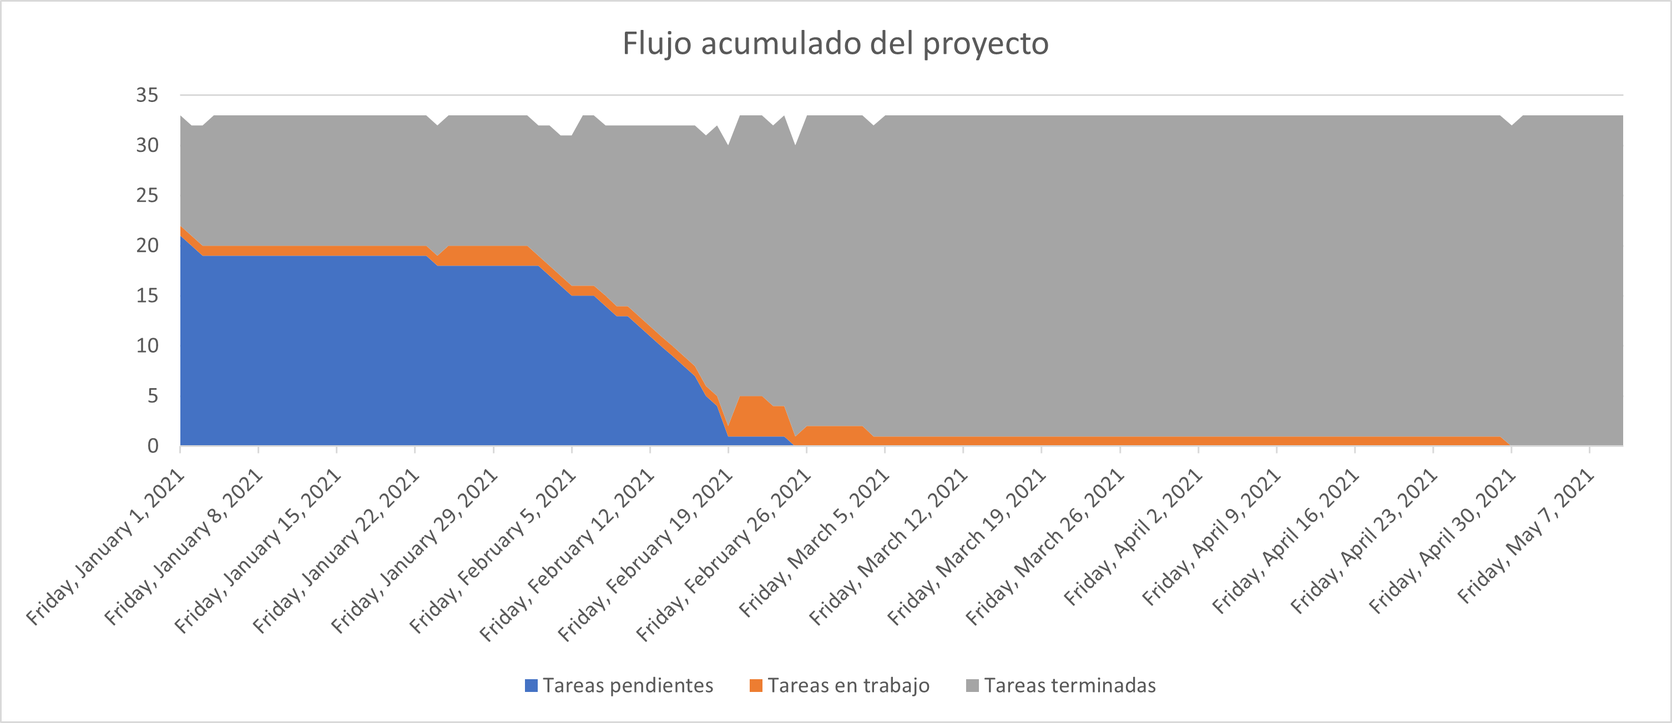
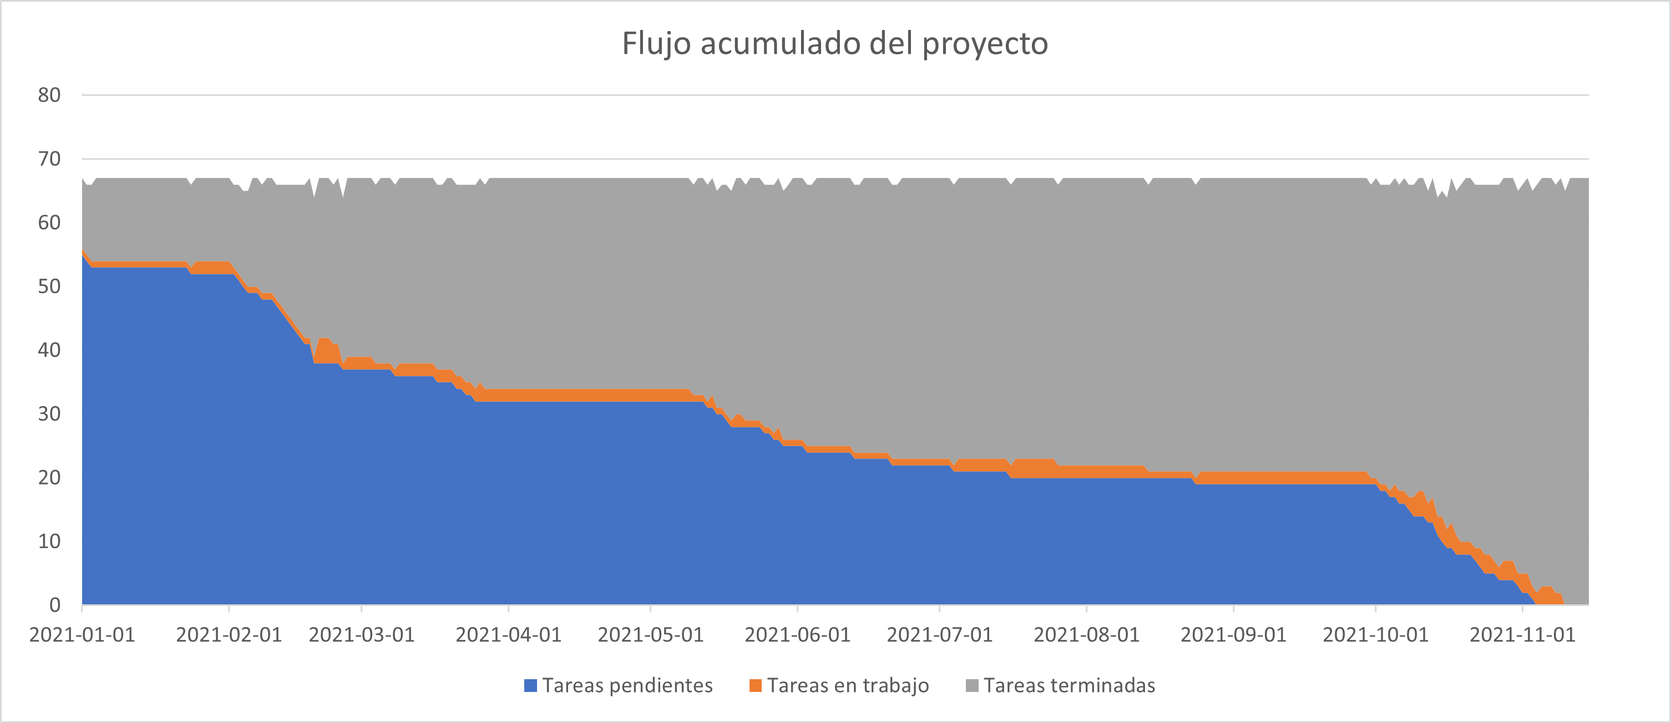
Actualizar actividades del proyecto y graficas

diff --git a/Capitulo4.tex b/Capitulo4.tex
@@ -2,12 +2,12 @@
 El siguiente capitulo se trabajó a base de la forma de validación detallada en el capítulo anterior. Y se detallan los resultados obtenidos.
 
 \section{Detalles de resultados}
-Se hizo reuniones con profesores de la materia de Fundamentos de Programación, en estas se revisaron los \textit{puzzles} del juego, se les mostró las mecánicas del juego y se revisó con ellos la forma de instalación para ver complejidad. Dado que por falta de tiempo la instalación se hace por el docente en su propia máquina. Las reuniones se realizaron para ver las opiniones del producto realizado para usuarios finales potenciales. Los usuarios a los que tiene más potencial de afectar el juego son a los estudiantes, pero como los profesores son los que implementan el juego en su clase, es importante de primera mano conocer sus perspectivas respecto al juego creado.
+Se realizaron varias reuniones con profesores de la materia de Fundamentos de Programación, en estas se revisaron los \textit{puzzles} del juego, se les mostró las mecánicas del juego y se revisó con ellos la forma de instalación. Esto último, dado que por falta de tiempo la instalación se hace por el docente en su propia máquina. Las reuniones se realizaron para ver las opiniones del producto realizado para usuarios finales potenciales. Los usuarios a los que tiene más potencial de afectar el juego son a los estudiantes, pero como los profesores son los que implementan el juego en su clase, es importante de primera mano un estudio para explorar sus perspectivas respecto al juego creado.
 
-Se realizaron cinco reuniones con distintos docentes del departamento de ingeniería eléctrica y computación de la Universidad Autónoma de Ciudad Juárez que imparten o impartieron en los últimos semestres la materia de Fundamentos de Programación en el campus de Ciudad Universitaria.
+Se realizaron reuniones con cinco distintos docentes del departamento de ingeniería eléctrica y computación de la Universidad Autónoma de Ciudad Juárez que imparten o impartieron en los últimos semestres la materia de Fundamentos de Programación en el campus de Ciudad Universitaria.
 
 \subsection{Primera reunión}
-Se realizó esta reunión el 6 de octubre del 2021. En esta se revisó el material del juego, se vio el valor didáctico de los diferentes puzzles del juego, y de manera menos detallada, la instalación y el \textit{gameplay}. En la revisión del juego, comento de manera positiva la variedad de los puzzles. Sin embargo, mencionó que debido al diseño de los puzzles que algunos tienen código similar a \textit{C} (figura~\ref{fig:for_puzzle_fail_c}), otro muy parecido a \textit{Python} (figura~\ref{fig:for_puzzle_fail_python}) y algunos adicionales de pseudocódigo, seria complicado para el docente usar este juego para la impartición de su clase porque ``rompería'' con lo visto en clase en algunos temas. Si el profesor tiene que explicar al estudiante que ciertos \textit{puzzles} funcionan de manera diferente a como se explicó en clase, el juego pierda valor didáctico y en el peor de los casos, podría confundir a los estudiantes.
+Se realizó esta reunión el 6 de octubre del 2021. Se revisó en esta el material del juego, se vio el valor didáctico de los diferentes puzzles del juego y de manera menos detallada, la instalación y el \textit{gameplay}. En esta revisión del juego comento de manera positiva la variedad de los puzzles. Sin embargo, mencionó que debido al diseño de los puzzles que algunos tienen código similar a \textit{C} (figura~\ref{fig:for_puzzle_fail_c}), otro muy parecido a \textit{Python} (figura~\ref{fig:for_puzzle_fail_python}) y algunos adicionales de pseudocódigo, seria complicado para el docente usar este juego para la impartición de su clase porque ``rompería'' con lo visto en clase en algunos temas. Si el profesor tiene que explicar al estudiante que ciertos \textit{puzzles} funcionan de manera diferente a como se explicó en clase, el juego pierda valor didáctico y en el peor de los casos, podría confundir a los estudiantes.
 \begin{figure}
     \centering
     \begin{subfigure}{0.4\textwidth}
@@ -29,18 +29,18 @@ Ante estos resultados se decidió volver a analizar el diseño y corregir los de
 \subsection{Segunda reunión}
 Se realizó una reunión el 1 de noviembre del 2021 con otro docente. A partir de esta reunión se usaron los ejercicios rediseñados. Se le mostró los diferentes ejercicios que pueden hacer los jugadores y las mecánicas del juego.
 
-Comento que le pareció muy bien los \textit{puzzles}. Mencionó que los ejercicios de los ciclos y valores booleanos eran muy útiles. Destacando que los ejercicios de ciclos donde el jugador tiene que decir cuantas vueltas dan, atacan un problema que ha tenido en sus clases. Adicionalmente detalló que los ejercicios de ciclos que requieren que los jugadores pongan los parámetros correctos son muy útiles porque algunos de sus estudiantes tienen problemas razonando cuando debería terminar el ciclo. Le pareció bien que los ejercicios cambiaran de valores de manera aleatoria, de manera que sea distinta cada partida del juego. 
+Comento que le pareció muy bien los \textit{puzzles}. Mencionó que los ejercicios de los ciclos y valores booleanos eran muy útiles, destacando que los ejercicios de ciclos donde el jugador tiene que decir cuantas vueltas dan, atacan un problema que ha tenido en sus clases. Adicionalmente detalló que los ejercicios de ciclos que requieren que los jugadores pongan los parámetros correctos son muy útiles porque algunos de sus estudiantes tienen problemas razonando cuando debería terminar el ciclo. Le pareció bien que los ejercicios cambiaran de valores de manera aleatoria, de manera que sea distinta cada partida del juego. 
 
 Agregando a lo anterior, comento positivamente de las mecánicas del juego. Menciono que la forma en la que está el juego puede llamar la atención a los alumnos y mantenerlos interesados en jugar más.
 
 Lo único negativo que menciono es que le gustaría que hubiera ejercicios de arreglos y matrices.
 
 \subsection{Tercera reunión}
-El 1 de noviembre del 2021 se tuvo una tercera reunión con otro docente, este no está dando esta clase actualmente, pero lo ha hecho en semestres anteriores. De la misma manera se le mostró los diferentes ejercicios que resolverán los jugadores y las mecánicas del juego.
+El 1 de noviembre del 2021 se tuvo una tercera reunión con otro docente, este no imparte esta clase actualmente, pero lo hizo en semestres anteriores. De la misma manera se le mostró los diferentes ejercicios que resolverán los jugadores y las mecánicas del juego.
 
-Hizo las siguientes observaciones de los ejercicios:
+Hizo en la reunión las siguientes observaciones de los ejercicios:
 \begin{itemize}
-    \item Le gustaría que hubiera más ejercicios con condicionales dobles.
+    \item Le gustaría que hubiera más ejercicios sobre condicionales dobles.
     \item Comentó que sería bueno agregar títulos en los \textit{puzzle} denotando el tema que trata.
     \item Le gustaría que se agregaran acertijos adicionales que agreguen \textbf{ciclos para} con pasos distintos a 1. Para sacar a los estudiantes fuera de su zona de confort y tendrían la ventaja adicional de crear un modelo mental más robusto.
     \item Las indicaciones de los acertijos deben de ser más claras con lo que se pide.
@@ -53,7 +53,7 @@ Adicionalmente, detallo que los estudiantes batallan con las condicionales y los
 \subsection{Cuarta reunión}
 Se agendó una reunión con un cuarto docente el 3 de noviembre del 2021. 
 
-Este docente considero que el juego funciona para reforzar lo aprendido en la clase de Fundamentos de Programación, cumpliendo los temas de la materia. Le pareció muy bien que los ejercicios cambiaran cada partida. Le gusto que los puzzles dieran al razonamiento de los pseudocódigos del ejercicio a resolver; y que en lugar de darles instrucciones y que tengan que escribir un resultado, se les dé un resultado y tengan que evaluar si hace lo que pide las instrucciones.
+Este docente consideró que el juego es útil para reforzar lo aprendido en la clase de Fundamentos de Programación, cumpliendo los temas de la materia. Le pareció muy bien que los ejercicios cambiaran cada partida. Además, menciono que le gusto que los puzzles dieran al razonamiento de que hacen los pseudocódigos del ejercicio a resolver; y que en lugar de darles instrucciones y que tengan que escribir un resultado, se les dé un resultado y tengan que evaluar si hace lo que pide las instrucciones.
 
 Lo único que no le convenció del todo fueron la inclusión de funciones en algunos \textit{puzzles}, porque no las ve en su clase y en general es un aspecto nebuloso en la descripción de la materia. Además, lo que le gustaría a futuro es que existiese una versión en un \textit{host}, de manera que puedan mandar a los estudiantes a una \textit{URL} y puedan acceder de esa manera el juego.
 
@@ -62,13 +62,13 @@ Comento que sí usaría este juego, como repaso al final del semestre o para un 
 \subsection{Quinta reunión}
 Se hizo una reunión con un quinto docente el 3 de noviembre del 2021.
 
-Comento que les gustaría más escalones de dificultad. Donde los estudiantes tengan que resolver ejercicios más complejos como. Y en los puzzles con \textbf{Ciclos Para} agregar ejercicios con pasos negativos y variación de los pasos.
+Comento que les gustaría más escalones de dificultad, donde los estudiantes tengan que resolver ejercicios más complejos. Y en los puzzles con \textbf{Ciclos Para} agregar ejercicios con pasos negativos y variación de los pasos.
 
 \section{Discusión de los resultados}
-A los docentes entrevistados se les hizo interesante el juego, y piensan que el juego como esta les llamara la atención a sus alumnos.
+A los docentes entrevistados se les hizo interesante el juego, y comentaron que el juego como esta les llamara la atención a sus alumnos cuando lo jueguen.
 
-Sobre los \textit{puzzles}, comentaron positivamente de la variedad que hay. Después de la primera entrevista se notaron puntos débiles que limitarían la adopción del juego en el salón, esto se pudo arreglar, como se había hablado en el capítulo anterior, cambiando a usar la sintaxis de PSeInt para los puzzles y cambiando varios de estos ejercicios para aumentar su valor didáctico. Después de estos cambios, en las siguientes reuniones, les pareció excelente los ejercicios. Aunque si salieron detalles a corregir, como en algunos ejercicios el tipo de letra hace que los signos sean muy pequeños, hacer las instrucciones más claras y quitar algunas cosas en los pseudocódigos que pudiera agregar ruido a los alumnos.
+Sobre los \textit{puzzles}, comentaron positivamente de la variedad que hay. Después de la primera entrevista se notaron puntos débiles que limitarían la adopción del juego en el salón, esto se pudo arreglar, como se había discutido en el capítulo anterior, se cambio a la sintaxis de PSeInt para los puzzles y se ajustaron varios de estos ejercicios para aumentar su valor didáctico. Después de estos cambios, en las reuniones les parecieron bien los ejercicios. Aunque si salieron detalles a corregir, como en algunos ejercicios el tipo de letra hace que los signos sean muy pequeños, hacer las instrucciones más claras y quitar algunas cosas en los pseudocódigos que pudiera agregar ruido a los alumnos.
 
 La opinión general de los docentes inspira confianza a que es algo que usarían o por lo menos algo que considerarían usar una vez desplegado en un servidor.
 
-Salieron algunas sugerencias adicionales, que se hablaran más adelante, que son muy interesantes de explorar a futuro y agregarían valor al juego, pero no se pudieron trabajar por falta de tiempo.
+Salieron algunas sugerencias adicionales, que se discutiran más adelante, son muy interesantes de explorar a futuro y agregarían valor al juego, pero no se pudieron trabajar por falta de tiempo.

diff --git a/Capitulo3.tex b/Capitulo3.tex
@@ -11,76 +11,76 @@ Para la evaluación de la eficacia del producto creado se pidió la ayuda de var
 
 \section{Metodología}
 \begin{longtable}[c]{|m{5cm}|c|c|c|}
-\caption{Actividades del proyecto \label{table:fechas_actividades}}\\
+\caption{Calendarización de actividades del proyecto \label{table:fechas_actividades}}\\
 \hline
-Actividades                                         & Fecha de inicio & Fecha de termino   & Duración \\
-\hline
-Jugador puede agendar reuniones                    & 3-Feb-21  & 4-Feb-21  & 1      \\
-\hline
-Poder unirse a un lobby                            & 17-Dec-20 & 19-Dec-20 & 2      \\
-\hline
-Jugador puede moverse por el mapa                  & 2-Jan-21  & 2-Jan-21  & 0      \\
-\hline
-Jugador puede interactuar con objetos de la escena & 3-Jan-21  & 3-Jan-21  & 0      \\
-\hline
-Jugador puede votar por un jugador como culpable   & 24-Jan-21 & 2-Feb-21  & 9      \\
-\hline
-Moverse por las alcantarillas                      & 4-Feb-21  & 5-Feb-21  & 1      \\
-\hline
-Ocultar gente muerta                               & 5-Feb-21  & 5-Feb-21  & 0      \\
-\hline
-Votar por asesinos para expulsarlos                & 6-Feb-21  & 7-Feb-21  & 1      \\
-\hline
-Puzzle boilers -int                                & 8-Feb-21  & 8-Feb-21  & 0      \\
-\hline
-Puzzle de secuencia                                & 9-Feb-21  & 10-Feb-21 & 1      \\
-\hline
-Puzzle de variable-bool                            & 11-Feb-21 & 11-Feb-21 & 0      \\
-\hline
-Puzzle auto do-while                               & 12-Feb-21 & 12-Feb-21 & 0      \\
-\hline
-Puzzle variable-float                              & 12-Feb-21 & 13-Feb-21 &        \\
-\hline
-Puzzle cuarto de lavado -for                       & 14-Feb-21 & 14-Feb-21 & 0      \\
-\hline
-Puzzle zaguán- llenar cubeta -while                & 15-Feb-21 & 15-Feb-21 & 0      \\
-\hline
-Puzzle if                                          & 16-Feb-21 & 16-Feb-21 & 0      \\
-\hline
-Puzzle string-substring                            & 17-Feb-21 & 17-Feb-21 & 0      \\
-\hline
-Puzzle if/else                                     & 17-Feb-21 & 17-Feb-21 & 0      \\
-\hline
-Puzzle de saboteo para boiler                      & 18-Feb-21 & 18-Feb-21 & 0      \\
-\hline
-Puzzle para saboteo para electricidad              & 19-Feb-21 & 19-Feb-21 & 0      \\
-\hline
-Investigación de antecedentes                      & 12-Aug-19 & 9-Sep-19  & 28     \\
-\hline
-Establecimiento de objetivos del proyecto          & 9-Sep-19  & 20-Sep-19 & 11     \\
-\hline
-Desarrollo del marco referencial                   & 16-Sep-19 & 20-Sep-19 & 4      \\
-\hline
-Definición del producto esperado                   & 23-Sep-19 & 23-Sep-19 & 0      \\
-\hline
-Metodología de desarrollo                          & 30-Sep-19 & 4-Oct-19  & 4      \\
-\hline
-Cronograma de actividades                          & 30-Sep-19 & 4-Oct-19  & 4      \\
-\hline
-Entrega del borrador final                         & 16-Oct-19 & 16-Oct-19 & 0      \\
-\hline
-Presentación                                       & 17-Oct-19 & 17-Oct-19 & 0      \\
-\hline
-Atención a las observaciones de los asesores       & 28-Oct-19 & 13-Nov-19 & 16     \\
-\hline
-Presentación del desarrollo del proyecto           & 15-Nov-19 & 15-Nov-19 & 0      \\
-\hline
-Redacción del capítulo de desarrollo del proyecto  & 17-Dec-20 & 30-Abr-21 & 134      \\
-\hline
-Permitir que jugadores que están como asesinos puedan activar los sabotajes & 19-Feb-21 & 23-Feb-21 & 4 \\
-\hline
-Sabotajes pueden ser detenidos solamente por junta de cuando un jugador reporta que encontró una tumba & 25-Feb-21 & 4-Mar-21 & 7 \\
-\hline
+        Tarea & Fecha Inicio & Fecha Finalización & Duración \\ \hline
+        Investigación de antecedentes & 12/08/2019 & 09/09/2019 & 28 \\ \hline
+        Establecimiento de objetivos del proyecto & 09/09/2019 & 20/09/2019 & 11 \\ \hline
+        Desarrollo del marco referencial & 16/09/2019 & 20/09/2019 & 4 \\ \hline
+        Definición del producto esperado & 23/09/2019 & 23/09/2019 & 0 \\ \hline
+        Cronograma de actividades & 30/09/2019 & 04/10/2019 & 4 \\ \hline
+        Metodología de desarrollo & 30/09/2019 & 04/10/2019 & 4 \\ \hline
+        Entrega del borrador final & 16/10/2019 & 16/10/2019 & 0 \\ \hline
+        Presentación & 17/10/2019 & 17/10/2019 & 0 \\ \hline
+        Atención a las observaciones de los asesores & 28/10/2019 & 13/11/2019 & 16 \\ \hline
+        Presentación del desarrollo del proyecto & 15/11/2019 & 15/11/2019 & 0 \\ \hline
+        Poder unirse a un lobby & 17/12/2020 & 19/12/2020 & 2 \\ \hline
+        Redacción del capítulo de desarrollo del proyecto & 17/12/2020 & 31/10/2021 & 318 \\ \hline
+        Jugador puede moverse por el mapa & 02/01/2021 & 02/01/2021 & 0 \\ \hline
+        Jugador puede interactuar con objetos de la escena & 03/01/2021 & 03/01/2021 & 0 \\ \hline
+        Jugador puede votar por un jugador como culpable & 24/01/2021 & 02/02/2021 & 9 \\ \hline
+        Jugador puede agendar reuniones & 03/02/2021 & 04/02/2021 & 1 \\ \hline
+        Moverse por las alcantarillas & 04/02/2021 & 05/02/2021 & 1 \\ \hline
+        Ocultar gente muerta & 05/02/2021 & 05/02/2021 & 0 \\ \hline
+        Puzzle boilers -int & 08/02/2021 & 08/02/2021 & 0 \\ \hline
+        Puzzle de variable-bool & 11/02/2021 & 11/02/2021 & 0 \\ \hline
+        Puzzle auto do-while & 12/02/2021 & 12/02/2021 & 0 \\ \hline
+        Puzzle variable-float & 13/02/2021 & 13/02/2021 & 0 \\ \hline
+        Puzzle cuarto de lavado -for & 14/02/2021 & 14/02/2021 & 0 \\ \hline
+        Puzzle zaguán- llenar cubeta -while & 15/02/2021 & 15/02/2021 & 0 \\ \hline
+        Puzzle if & 16/02/2021 & 16/02/2021 & 0 \\ \hline
+        Puzzle if/else & 17/02/2021 & 17/02/2021 & 0 \\ \hline
+        Jugadores asesinos pueden ejecutar sabotajes & 19/02/2021 & 23/02/2021 & 4 \\ \hline
+        Puzzle de saboteo de telégrafo (cuestionario) & 19/02/2021 & 25/02/2021 & 6 \\ \hline
+        Puzzle para saboteo para electricidad & 19/02/2021 & 25/02/2021 & 6 \\ \hline
+        Sabotajes pueden ser detenidos únicamente por junta por cadáver encontrado & 25/02/2021 & 04/03/2021 & 7 \\ \hline
+        Configurar protocolo websockets & 08/03/2021 & 10/05/2021 & 63 \\ \hline
+        Puzzle string & 17/03/2021 & 18/03/2021 & 1 \\ \hline
+        Puzzle de secuencia & 21/03/2021 & 22/03/2021 & 1 \\ \hline
+        Puzzle string-substring & 23/03/2021 & 24/03/2021 & 1 \\ \hline
+        Agregar sprites terminados al juego & 25/03/2021 & 27/03/2021 & 2 \\ \hline
+        Conectar a UI sistema de asesinos y programadores & 13/05/2021 & 15/05/2021 & 2 \\ \hline
+        Hacer jugador transparentoso cuando haya muerto, y solo mostrar a otros jugadores muertos. Spawnear tumbita para los que esta vivos & 15/05/2021 & 16/05/2021 & 1 \\ \hline
+        Pasar bandera si es asesino de la selección que ocurrió al estar todos listos en el lobby & 17/05/2021 & 18/05/2021 & 1 \\ \hline
+        Agregar cool downs después de votación para volver a activar las juntas de emergencia y de los asesinos poder matar a los programadores & 18/05/2021 & 21/05/2021 & 3 \\ \hline
+        Asignar nombre al jugador cuando no puso ninguno en el lobby & 25/05/2021 & 26/05/2021 & 1 \\ \hline
+        Actualizar sprite del jugador a el personaje elegido en el lobby & 27/05/2021 & 29/05/2021 & 2 \\ \hline
+        Pantalla para mostrar si jugador ha ganado o perdido al final del juego & 29/05/2021 & 30/05/2021 & 1 \\ \hline
+        Puzzle de saboteo para boiler & 03/06/2021 & 04/06/2021 & 1 \\ \hline
+        Pantalla de elección de jugador & 13/06/2021 & 14/06/2021 & 1 \\ \hline
+        Agregar información de las vueltas realizadas en puzzle for & 21/06/2021 & 22/06/2021 & 1 \\ \hline
+        Crear contenedores Docker para correr el servidor y el web server & 04/07/2021 & 14/08/2021 & 41 \\ \hline
+        Trabajar en sistema de votación para expulsar asesinos & 16/07/2021 & 26/07/2021 & 10 \\ \hline
+        Hacer pruebas y corrección de errores antes de la verificación de requerimientos & 24/08/2021 & 30/09/2021 & 37 \\ \hline
+        Cambiar puzzle string por un puzzle de rellenar ciclo para & 02/10/2021 & 03/10/2021 & 1 \\ \hline
+        Redacción del capítulo 4 del documento & 04/10/2021 & 10/11/2021 & 37 \\ \hline
+        Reunión con primer docente & 06/10/2021 & 06/10/2021 & 0 \\ \hline
+        Rediseñar puzzles para usar sintaxis de PSeInt & 08/10/2021 & 14/10/2021 & 6 \\ \hline
+        Rediseñar puzzle de int a float a integrar SiNo para hacerlos de ver resultado de pseudocódigo & 09/10/2021 & 12/10/2021 & 3 \\ \hline
+        Rediseñar puzzle secuencia para definir un algoritmo para llegar al otro lado & 12/10/2021 & 18/10/2021 & 6 \\ \hline
+        Rediseñar puzzle For & 14/10/2021 & 15/10/2021 & 1 \\ \hline
+        Rediseñar puzle DoWhile & 14/10/2021 & 16/10/2021 & 2 \\ \hline
+        Rediseñar puzzle Bool a ser de seleccionar que hace el seudocódigo & 15/10/2021 & 16/10/2021 & 1 \\ \hline
+        Agregar ayudas para si se atoran los jugadores & 16/10/2021 & 19/10/2021 & 3 \\ \hline
+        Hacer que sprite el jugador se voltee a la dirección de movimiento & 18/10/2021 & 18/10/2021 & 0 \\ \hline
+        Corregir errores en seudocódigo de ejercicios & 22/10/2021 & 26/10/2021 & 4 \\ \hline
+        Cambiar número de jugadores máximo a 25 & 23/10/2021 & 23/10/2021 & 0 \\ \hline
+        Ocultar nametag de impostores en modo fantasma & 24/10/2021 & 25/10/2021 & 1 \\ \hline
+        Crear documentación de instalación y funcionamiento del juego & 27/10/2021 & 03/11/2021 & 7 \\ \hline
+        Redacción del capítulo 5 del documento & 31/10/2021 & 10/11/2021 & 10 \\ \hline
+        Reuniones con docentes 2 y 3 & 01/11/2021 & 01/11/2021 & 0 \\ \hline
+        Reuniones con docentes 3 y 4 & 03/11/2021 & 03/11/2021 & 0 \\ \hline
+        Redacción de la introducción del documento y detalles finales & 04/11/2021 & 08/11/2021 & 4 \\ \hline
 \end{longtable}
 
 Kanban fue la metodología usada para el desarrollo del proyecto. Para la organización del tablero usamos una aplicación multiplataforma llamada  \textit{Notion} (figura~\ref{fig:notion_proyecto}), de la cual se aprovechó su vista de tablero Kanban, lista de actividades y diagrama de Gantt. En los siguientes puntos se presenta el plan de actividades llevadas a cabo (y su descripción con mayor detalle) en la realización del proyecto. En la tabla~\ref{table:fechas_actividades}, la figuras ~\ref{fig:gantt_anteproyecto} y ~\ref{fig:gantt_proyecto} se puede ver las actividades realizadas a lo largo de la duración del proyecto. Desde las actividades del anteproyecto, pasando por la definición del producto esperado, hasta la realización del proyecto. 

diff --git a/Capitulo5.tex b/Capitulo5.tex
@@ -1,7 +1,7 @@
 % Inicio de Introducción
 \chapter{Conclusiones}\label{conclusiones}
  
- En esta sección se resume el trabajo realizado. Además, se discute los resultados respecto a los objetivos y pregunta de investigación. Adicionalmente se discute de trabajo a futuro.
+ En esta sección se resume el trabajo realizado. Adicionalmente, se discute los resultados respecto a los objetivos y la pregunta de investigación. Adicionalmente se discute de trabajos a futuro.
  
 \section{Con respecto a las preguntas de investigación}
 
@@ -9,7 +9,7 @@ Se encontró interés en muchos docentes de la materia de Fundamentos, respecto 
 
 En general, todos los docentes estuvieron de acuerdo en que sería algo que llamaría la atención a sus estudiantes, entre las razones porque:
 \begin{itemize}
-    \item Los roles, el cambio constante de los roles, así como la complejidad adicional que agrega la interacción entre compañeros para ser efectivo en tu rol mantienen el juego interesante para los alumnos.
+    \item Los roles. El cambio constante de los roles, así como la complejidad adicional que agrega la interacción entre compañeros para ser efectivo en tu rol mantienen el juego interesante para los alumnos.
     \item A base de su experiencia, los alumnos responden bien a cuando usan juegos o aplicaciones para el proceso de enseñanza. Juegos como \textit{Kahoot!} tuvieron muy buena acogida  en el salón de clases.
 \end{itemize}
 
@@ -26,7 +26,7 @@ Hubo dos sugerencias, una sobre agregar temas adicionales y otra sobre la comple
 \begin{itemize}
     \item Crear ejercicios con los temas de arreglos y matrices.
     
-    \item Agregar ejercicios más complejos. Los ejercicios de juego fueron diseñados para ser sencillos: de un solo tema y no muy extensos. Se puede aumentar la complejidad con la creación de ejercicios con más condicionales dobles, y agregar \texit{puzzles} con condicionales anidadas, ciclos y combinación de ciclos con condicionales. Estos ejercicios pueden ser habilitados en Configuración de partida y si están habilitados que reemplacen algunos de los ejercicios existentes de su respectivo tema. De forma que los alumnos tengan que razonar más el ejercicio. Esto a su vez mantiene el juego fresco durante más tiempo como efecto secundario. Adicionalmente, permite ajustar la dificultad al docente según el nivel de su clase.
+    \item Agregar ejercicios más complejos. Los ejercicios de juego fueron diseñados para ser sencillos: de un solo tema y no muy extensos. Se puede a futuro aumentar la complejidad con la creación de ejercicios con más condicionales dobles, y agregar \texit{puzzles} con condicionales anidadas, ciclos y combinación de ciclos con condicionales. Estos ejercicios pudieran ser habilitados o deshabilitados en Configuración de partida y si están habilitados que reemplacen algunos de los ejercicios existentes de su respectivo tema. De forma que los alumnos tengan que razonar más el ejercicio. Y como efecto secundario, esto a su vez mantiene el juego fresco durante más tiempo. En general esto permite al docente ajustar la dificultad según el nivel de su clase.
     
     \item Usando la Configuración de partida, se pudiera agregar una nueva opción que solo permita \textit{puzzles} que tengan contenido de programación, dado que algunos ejercicios para las emergencias tienen preguntas de conocimiento popular.
 \end{itemize}
@@ -37,7 +37,7 @@ Aunque existe la infraestructura en el sistema de integración continua para eje
 \subsection{Comprobación con alumnos}
 Uno de los temas comunes de todas las reuniones con docentes es que un juego como ayuda pedagógica es algo que sería de interés para los alumnos. Sería interesante realizar una encuesta para obtener la opinión de los estudiantes de educación superior sobre aprender con juegos, esto permitiría evaluar la utilidad de creación de diversos proyectos de juegos para \textit{e-learning} para este segmento. 
 
-Adicionalmente seria de especial interés realizar una verificación con estudiantes. En una verificación se podría estudiar si hay un impacto positivo en el desempeño de los estudiantes con el uso del material de repaso aquí creado, encontrar detalles que impacten la usabilidad del programa y evaluar si a los alumnos se les hace divertido repasar el material con el juego. Porque, aunque es vital aprender que opinión tienen los profesores sobre el juego porque son ellos quien lo implementaran en el salón de clases, ya en el salón de clases es importante ver su impacto y la forma en la que podemos mejorar la utilidad de este primero.
+Adicionalmente seria de especial interés realizar una verificación con estudiantes. En esta se podría estudiar si hay un impacto positivo en el desempeño de los estudiantes con el uso del material de repaso aquí creado. Así como encontrar detalles que impacten la usabilidad del programa y evaluar si a los alumnos se les hace divertido repasar con el juego. Porque, aunque es vital aprender que opinión tienen los profesores sobre el juego porque son ellos quien lo implementaran en el salón de clases, ya en el salón de clases es importante ver su impacto y la forma en la que podemos mejorar la utilidad de este producto.
 
 
 
